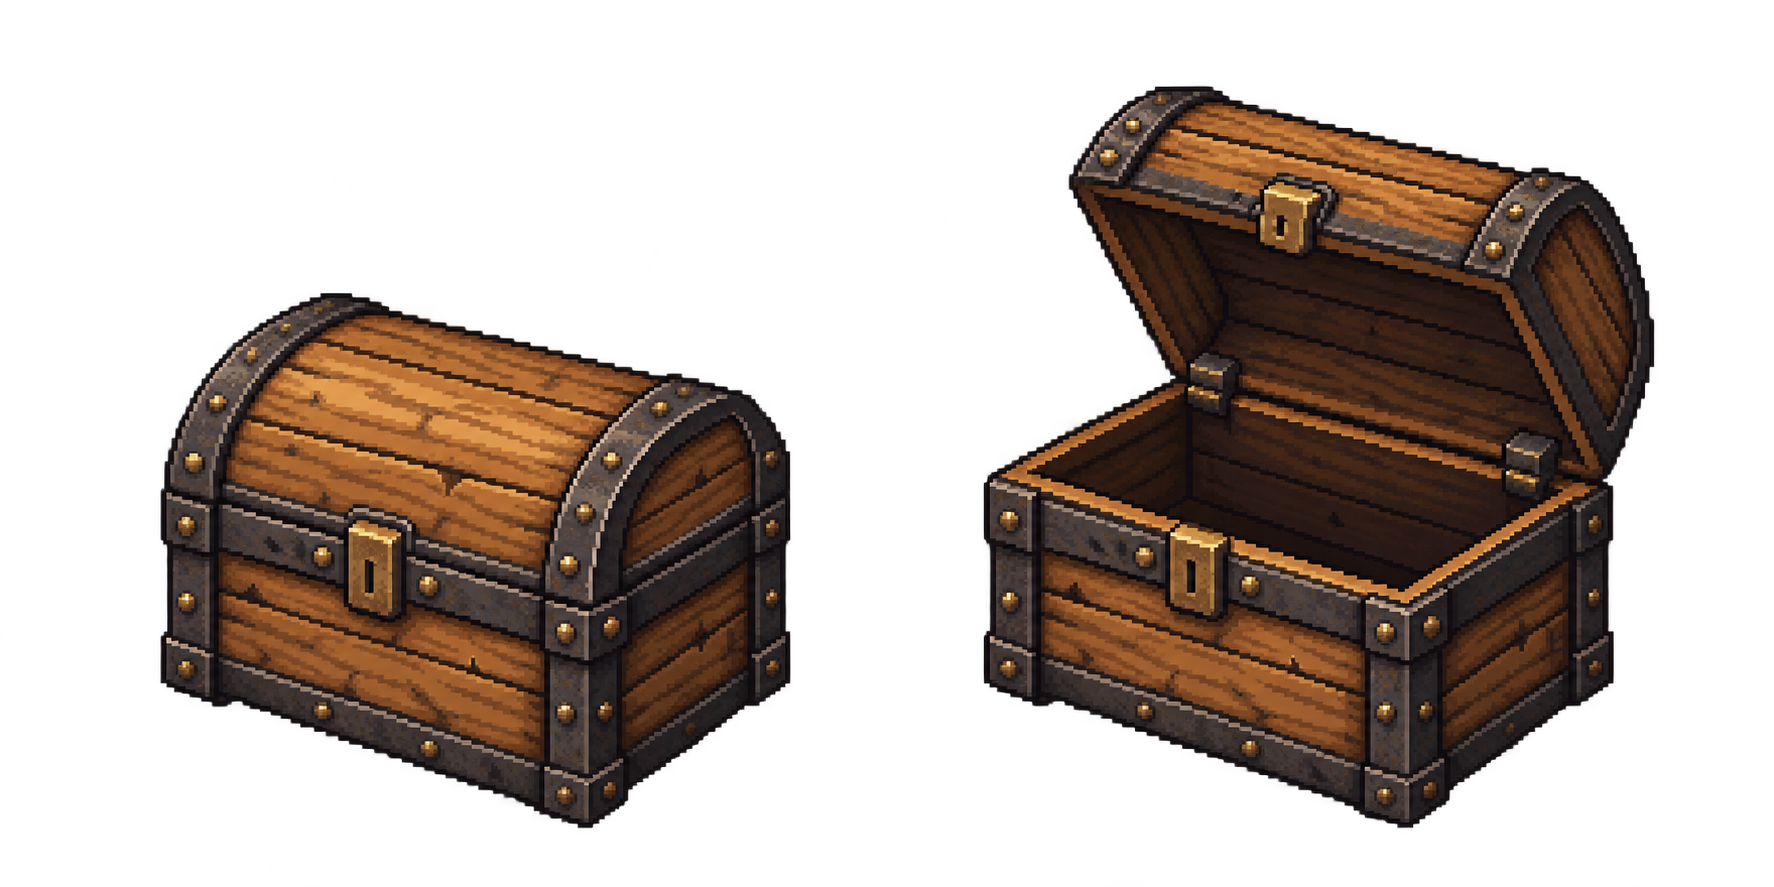
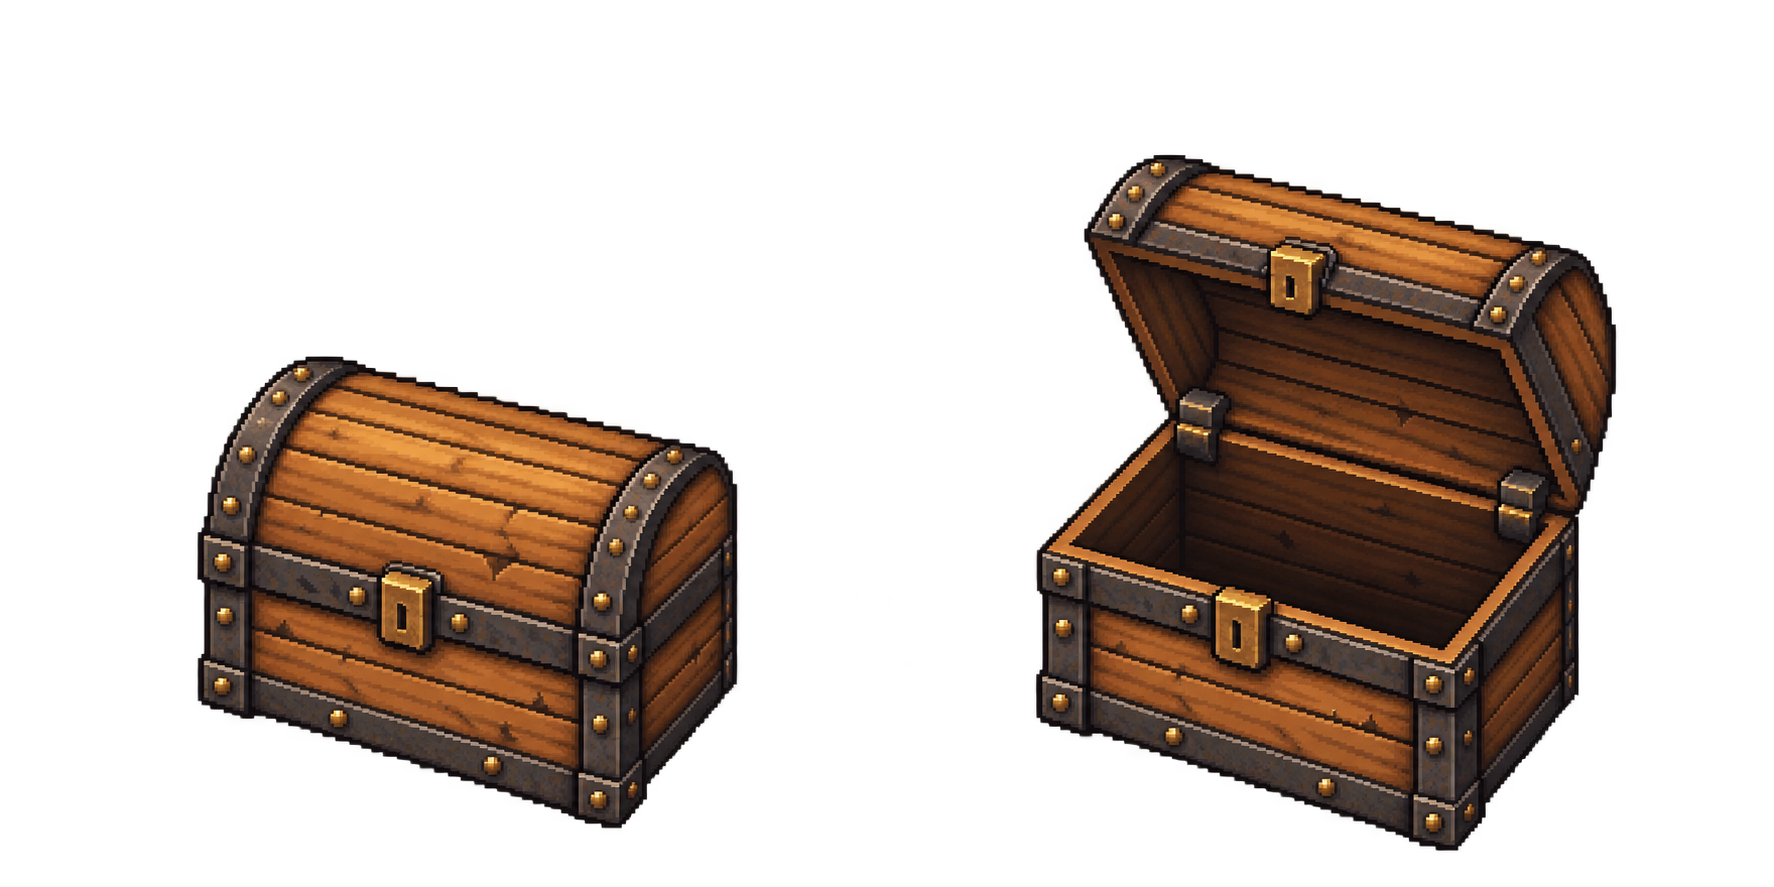
art: ajusta bau, visibilidade da exploradora e guia

diff --git a/Assets/Scripts/Prototype/PrototypeHud.cs b/Assets/Scripts/Prototype/PrototypeHud.cs
@@ -1,54 +1,34 @@
 using UnityEngine;
-using DragonQuest.Exploration;
 using DragonQuest.Interactions;
-using DragonQuest.Progression;
 
 namespace DragonQuest.Prototype
 {
     public sealed class PrototypeHud : MonoBehaviour
     {
-        private Camera view;
         private PlayerInteraction interaction;
         private DialogueController dialogue;
-        private ExplorationProgress progress;
-        private PrototypeLocations locations;
         private PrototypeBattleController battle;
-        private PrototypeShopController shops;
-        private AncientSecrets secrets;
         private GUIStyle titleStyle;
         private GUIStyle bodyStyle;
         private Texture2D panelTexture;
 
-        public void Initialize(Camera worldCamera, PlayerInteraction playerInteraction,
-            DialogueController dialogueController, ExplorationProgress explorationProgress, PrototypeLocations locationController,
-            PrototypeBattleController battleController, PrototypeShopController shopController, AncientSecrets ancientSecrets)
+        public void Initialize(PlayerInteraction playerInteraction, DialogueController dialogueController,
+            PrototypeBattleController battleController)
         {
-            view = worldCamera;
             interaction = playerInteraction;
             dialogue = dialogueController;
-            progress = explorationProgress;
-            locations = locationController;
             battle = battleController;
-            shops = shopController;
-            secrets = ancientSecrets;
         }
 
         private void OnGUI()
         {
-            if (view == null || battle.IsBusy) return;
+            if (interaction == null || dialogue == null || battle == null || battle.IsBusy) return;
             EnsureStyles();
             float scale = Mathf.Clamp(Screen.height / 720f, 0.65f, 2f);
             Matrix4x4 previousMatrix = GUI.matrix;
             GUI.matrix = Matrix4x4.Scale(new Vector3(scale, scale, 1));
             float width = Screen.width / scale;
             float height = Screen.height / scale;
-
-            GUI.DrawTexture(new Rect(16, 16, Mathf.Min(590, width - 32), secrets.IsDiscovered ? 172 : 126), panelTexture);
-            GUI.Label(new Rect(30, 25, width - 60, 27), "DRAGON QUEST  /  " + locations.LocationName, titleStyle);
-            GUI.Label(new Rect(30, 54, width - 60, 24), "WASD/setas: andar  |  E: interagir", bodyStyle);
-            GUI.Label(new Rect(30, 78, width - 60, 24), "I: inventario" + (secrets.KnowsPoem ? "  |  P: poema" : "") + "  |  Ouro: " + progress.Gold, bodyStyle);
-            GUI.Label(new Rect(30, 104, Mathf.Min(442, width - 60), 34), shops.Quest.Summary, bodyStyle);
-            if(secrets.IsDiscovered) GUI.Label(new Rect(30,144,Mathf.Min(548,width-60),34),secrets.Summary,bodyStyle);
 
             if (dialogue.IsOpen)
             {
@@ -70,18 +50,14 @@ namespace DragonQuest.Prototype
             }
             else
             {
-                GUI.DrawTexture(new Rect(16, height - 64, width - 32, 48), panelTexture);
                 string prompt = interaction.CurrentPrompt;
-                if (string.IsNullOrEmpty(prompt))
-                    prompt = locations.IsInShop ? "Use E no lojista para comprar/vender; a saida fica ao sul."
-                        : locations.LocationId == PrototypeTravel.World ? "Caminhe ate a entrada do castelo, florestas ou ruinas para entrar automaticamente."
-                        : locations.IsInCity ? "Lojas ao redor da praca. Castelo ao norte; saida para a ilha ao sul. Caminhe pelas entradas."
-                        : locations.LocationId == PrototypeTravel.Castle ? "O trono fica ao norte; caminhe ate a saida ao sul para voltar a periferia."
-                        : locations.LocationId == PrototypeTravel.Ruins ? "Explore as ruinas. O altar fica ao norte; a saida para a ilha fica ao sul."
-                        : locations.LocationId == PrototypeTravel.Volcano ? "Siga a trilha entre a lava ate a arena. A saida fica ao sul."
-                        : locations.LocationId == PrototypeTravel.Inn ? "F5: salvar jornada / E na hospedeira: salvar ou conversar / I: inventario. Saida ao sul."
-                        : "Converse com o morador usando E. A saida para a ilha fica ao sul.";
-                GUI.Label(new Rect(28, height - 57, width - 56, 38), prompt, bodyStyle);
+                if (!string.IsNullOrEmpty(prompt))
+                {
+                    float promptWidth = Mathf.Min(380, width - 32);
+                    float left = (width - promptWidth) / 2;
+                    GUI.DrawTexture(new Rect(left, height - 64, promptWidth, 48), panelTexture);
+                    GUI.Label(new Rect(left + 12, height - 57, promptWidth - 24, 38), prompt, bodyStyle);
+                }
             }
             GUI.matrix = previousMatrix;
         }

diff --git a/Tests/ObliqueChecks.cs b/Tests/ObliqueChecks.cs
@@ -186,6 +186,7 @@ internal static class ObliqueChecks
         Assert(moat.Vertices.Any(p=>p.z>0.5f),"Fosso precisa ficar visualmente abaixo da rua, com bloqueio fisico definido no layout.");
         city.Append(streets.Body,Vector3.zero);cityGlow.Append(streets.Glow,Vector3.zero);
         CheckEquipmentApproach();
+        CheckExplorerVisibility();
         var sign=new ObliqueMeshData();CityPeripheryArt.Panel(sign,0,-2.1f,2,3,0.8f,1);
         Near(sign.UVs[0].x,0.01f,"Placa inicia na borda esquerda da celula.");Near(sign.UVs[2].x,0.99f,"Placa termina na borda direita da celula.");
         Assert(sign.Surfaces.All(s=>s.x==1&&s.y==1),"Letreiro nao pode receber material de grama ou escurecimento por face.");
@@ -298,6 +299,20 @@ internal static class ObliqueChecks
         foreach(float x in new[]{-1f,0,1f})
             Assert(!float.IsFinite(RayDistance(ObliqueProjection.Point(new Vector2(PrototypeCityLayout.EquipmentDoor.x+x,-12.445f),2.2f),towardCamera,others)),
                 "Casa vizinha nao pode esconder o letreiro ARMAS.");
+    }
+    private static void CheckExplorerVisibility()
+    {
+        var buildings=new ObliqueMeshData();
+        foreach(var building in PrototypeCityLayout.Buildings)
+            buildings.Append(CityPeripheryArt.Building(building.Name,building.Size,building.Color).Body,ObliqueProjection.Point(building.Position));
+        buildings.Append(CityPeripheryArt.Streets().Body,Vector3.zero);
+        var towardCamera=new Vector3(ObliqueProjection.YawSin*ObliqueProjection.HeightScale,
+            -ObliqueProjection.YawCos*ObliqueProjection.HeightScale,-ObliqueProjection.GroundScale);
+        Assert(float.IsFinite(RayDistance(ObliqueProjection.Point(new Vector2(7.7f,-0.2f),0.5f),towardCamera,buildings)),
+            "Posicao anterior da exploradora deve reproduzir a oclusao por uma casa.");
+        foreach(float x in new[]{-0.2f,0,0.2f}) foreach(float height in new[]{0.075f,0.5f,1f,1.4f})
+            Assert(!float.IsFinite(RayDistance(ObliqueProjection.Point(PrototypeCityLayout.Explorer+Vector2.right*x,height),towardCamera,buildings)),
+                "Exploradora deve aparecer inteira na rua central.");
     }
     private static void CheckCityViewportCoverage(string directory)
     {

diff --git a/Tests/PixelArtChecks.cs b/Tests/PixelArtChecks.cs
@@ -140,15 +140,17 @@ internal static class PixelArtChecks
     private static void CheckChestFrames()
     {
         var alpha=new byte[60*36];
-        for(int i=0;i<2;i++) for(int y=4;y<=17;y++) for(int x=6+i*30;x<=23+i*30;x++) alpha[y*60+x]=255;
+        for(int i=0;i<2;i++) for(int y=4+i*2;y<=17+i*2;y++) for(int x=6+i*30;x<=23+i*30;x++) alpha[y*60+x]=255;
         for(int y=18;y<=23;y++) for(int x=6;x<=23;x++) alpha[y*60+x]=255;
-        for(int y=20;y<=30;y++) for(int x=39;x<=56;x++) alpha[y*60+x]=255;
+        for(int y=22;y<=32;y++) for(int x=39;x<=56;x++) alpha[y*60+x]=255;
         var frames=PixelSpriteLayout.ReadPropPair(60,36,alpha);
         Assert(frames.Length==2&&frames[1].Height>frames[0].Height,"Bau precisa de estados fechado e aberto, com tampa inteira.");
         Assert(Math.Abs(frames[0].X+frames[0].Width*frames[0].FootX-15)<0.001f
             &&Math.Abs(frames[1].X+frames[1].Width*frames[1].FootX-45)<0.001f,
             "A tampa aberta mais larga nao pode deslocar o centro da caixa.");
-        Assert(frames[0].Y==frames[1].Y,"Trocar o estado deve conservar a base vertical.");
+        Assert(frames[0].Y!=frames[1].Y&&Math.Abs(frames[0].Pivot.y*frames[0].Height-1)<0.001f
+            &&Math.Abs(frames[1].Pivot.y*frames[1].Height-1)<0.001f,
+            "Recortes com baselines diferentes na folha devem apoiar a base na mesma ancora do mundo.");
         bool refused=false;try{PixelSpriteLayout.ReadPropPair(60,36,new byte[60*36]);}catch(ArgumentException){refused=true;}
         Assert(refused,"Folha de bau vazia precisa ser recusada.");
     }

diff --git a/Assets/Scripts/Prototype/PrototypeCity.cs b/Assets/Scripts/Prototype/PrototypeCity.cs
@@ -121,7 +121,7 @@ namespace DragonQuest.Prototype
             interaction.Initialize(new InteractionContext(dialogue, progress, locations.TravelTo,
                 battle.StartBattle, () => battle.IsBusy, shops.Open, secrets), interactables.ToArray());
             PrototypeHud hud = gameObject.AddComponent<PrototypeHud>();
-            hud.Initialize(camera, interaction, dialogue, progress, locations, battle, shops, secrets);
+            hud.Initialize(interaction, dialogue, battle);
             saves.Initialize(player.GetComponent<PlayerMovement>(), battle, shops, locations, dialogue, progress, secrets, dragon, journey =>
             {
                 progress = journey.Progress;
@@ -133,7 +133,7 @@ namespace DragonQuest.Prototype
                 shops.Initialize(player.GetComponent<PlayerMovement>(), dialogue, battle, progress, journey.Shops, journey.Quest);
                 interaction.Initialize(new InteractionContext(dialogue, progress, locations.TravelTo,
                     battle.StartBattle, () => battle.IsBusy, shops.Open, secrets), interactables.ToArray());
-                hud.Initialize(camera, interaction, dialogue, progress, locations, battle, shops, secrets);
+                hud.Initialize(interaction, dialogue, battle);
                 locations.Restore(journey.Data.Map, new Vector2(journey.Data.X, journey.Data.Y));
             });
         }

diff --git a/Assets/Scripts/Prototype/PrototypeCityLayout.cs b/Assets/Scripts/Prototype/PrototypeCityLayout.cs
@@ -54,10 +54,10 @@ namespace DragonQuest.Prototype
         public static readonly Vector2 Bridge = new Vector2(0, 12.5f);
         public static readonly Vector2 Guard = new Vector2(0, 8.4f);
         public static readonly Vector2 Citizen = new Vector2(-1.2f, -15);
-        public static readonly Vector2 Chest = new Vector2(0.5f, -4);
+        public static readonly Vector2 Chest = new Vector2(2, -2.5f);
         public static readonly Vector2 Resident = new Vector2(-8.2f, 0);
         public static readonly Vector2 Gardener = new Vector2(8, 7.4f);
-        public static readonly Vector2 Explorer = new Vector2(7.7f, -0.2f);
+        public static readonly Vector2 Explorer = new Vector2(0.4f, 1.7f);
         public static Vector2 ItemDoor => DoorAt("Loja de itens");
         public static Vector2 EquipmentDoor => DoorAt("Loja de equipamentos");
         public static Vector2 MateriaDoor => DoorAt("Loja de materias");

diff --git a/Tools/Inspect-PixelArt.py b/Tools/Inspect-PixelArt.py
@@ -77,7 +77,10 @@ for name in ("ArenWalk", "ArenDiagonalWalk", "LiaWalk", "BramWalk", "NpcRoster",
             if prop_pair:
                 entry['pixelsPerUnit'] = entry['frames'][0]['width'] / 1.1
                 check(abs(base_widths[0] - base_widths[1]) < base_widths[0] * .04, name + ": caixa muda de largura ao abrir")
-                check(abs(base_bottoms[0] - base_bottoms[1]) <= 2, name + ": base vertical desalinhada")
+                # Cada recorte ancora a propria base a um pixel da borda inferior. A posicao
+                # bruta na folha pode variar sem deslocar o bau ao trocar os sprites.
+                check(all(frame['y'] + frame['height'] - bottom == 1
+                          for frame, bottom in zip(entry['frames'], base_bottoms)), name + ": margem inferior da ancora incorreta")
         result[name] = entry
 
 if len(sys.argv) > 1:

diff --git a/Assets/Scripts/Prototype/PrototypeMateriaHud.cs b/Assets/Scripts/Prototype/PrototypeMateriaHud.cs
@@ -186,6 +186,7 @@ namespace DragonQuest.Prototype
             GUI.Label(new Rect(690, 310, 530, 135), selectedInventoryItem?.Description
                 ?? "Pocao recupera HP, eter recupera MP, antidoto remove veneno e Pluma da Fenix revive.", text);
             GUI.Label(new Rect(690, 483, 530, 130), "Itens nao recebem bonus de classe ou combos de materia. O estoque nao e restaurado a cada batalha. Compre suprimentos na loja de itens.", text);
+            if(secrets.IsDiscovered) GUI.Label(new Rect(690,635,530,45),secrets.Summary,small);
         }
 
         private void ResetSocketSelection() { selectedEquipment = null; selectedSlot = -1; socketsScroll = Vector2.zero; }

diff --git a/Assets/Scripts/Exploration/PixelSpriteLibrary.cs b/Assets/Scripts/Exploration/PixelSpriteLibrary.cs
@@ -25,7 +25,7 @@ namespace DragonQuest.Exploration
             for (int i = 0; i < frames.Length; i++)
             {
                 var f = frames[i];
-                Sprites[i] = Sprite.Create(Texture, f.Rect, new Vector2(f.FootX, 1f / f.Height), pixelsPerUnit, 0, SpriteMeshType.FullRect);
+                Sprites[i] = Sprite.Create(Texture, f.Rect, f.Pivot, pixelsPerUnit, 0, SpriteMeshType.FullRect);
                 Sprites[i].name = resource + " / " + i;
             }
         }

diff --git a/Assets/Scripts/Exploration/PixelSpriteLayout.cs b/Assets/Scripts/Exploration/PixelSpriteLayout.cs
@@ -12,6 +12,7 @@ namespace DragonQuest.Exploration
         public PixelFrame(int x, int y, int width, int height, float footX)
         { X = x; Y = y; Width = width; Height = height; FootX = footX; }
         public Rect Rect => new Rect(X, Y, Width, Height);
+        public Vector2 Pivot => new Vector2(FootX, 1f / Height);
     }
 
     // Pequenos intervalos sem deslocamento entre amostras da fisica nao reiniciam o passo.

diff --git a/Docs/PERIFERIA_PIXEL_ART.md b/Docs/PERIFERIA_PIXEL_ART.md
@@ -21,6 +21,7 @@ A periferia foi redesenhada a partir da referência enviada pelo usuário: bairr
 - Chegar ao portão depois da ponte troca automaticamente para o interior do castelo. Lojas e hospedaria também mantêm entrada automática; retornos ficam fora das áreas de passagem.
 - Passagens não têm marcações no chão. As áreas das três lojas e da hospedaria ficam centradas nos painéis das portas, com faixa acessível pela frente. Caminhar junto a uma janela não entra na loja. A saída sul cobre toda a largura caminhável do bairro; basta alcançar a faixa inferior para voltar à ilha.
 - Não há nomes flutuantes de lugares. ITENS, MATERIA, ARMAS e POUSADA aparecem em letreiros físicos presos às fachadas/toldos.
+- O baú fica parcialmente atrás do canto da oficina das lanternas, em (2; −2,5). A exploradora está na rua central, em (0,4; 1,7), visível por inteiro. O painel fixo de título/controles/missão e a faixa de dicas gerais foram retirados. O aviso E aparece apenas perto de uma interação; o progresso dos segredos pode ser consultado em I → Itens após a primeira descoberta.
 
 `PrototypeCityLayout` centraliza a planta, portas, retornos e moradores. `PrototypeTravel` usa essas coordenadas; o ícone global do castelo e os interiores mantêm suas conexões e IDs.
 
@@ -79,6 +80,6 @@ A fortaleza teve prévias geral e junto ao portão inspecionadas. A vista geral 
 2. Entre pelo ícone global do castelo. A chegada deve mostrar o bairro compacto, com pousada/armas próximas e sem lago, rio ou pontes de madeira.
 3. Siga a viela, entre nas três lojas e na hospedaria e retorne. Confira portas, letreiros, corpo do herói e ruas entre as casas, inclusive ao andar nas diagonais. As poses devem conservar o alinhamento do corpo e parar ao soltar as teclas ou ficar bloqueado. Encoste na frente e nas laterais do balcão: a cabeça deve permanecer inteira. Por trás de móveis e paredes, o corpo deve ser ocultado normalmente.
    Confira também que não há faixas douradas de entrada/saída. Aproximar-se da porta deve entrar; passar diante de uma janela ou distante no pátio deve continuar no bairro. Ao voltar, o herói fica fora da área de entrada. Experimente sair pelo sul tanto no centro quanto nas laterais caminháveis; voltar da ilha deve permitir permanecer na periferia.
-4. Converse com os moradores, consulte o poema e abra o baú se ainda não tiver sido coletado. O baú de madeira com ferragens fica no centro da rua do mercado, em (0,5; −4), afastado da projeção da chaminé. Deve trocar do sprite fechado para o aberto/vazio ao coletar 25 moedas. Interagir novamente não concede outra recompensa. Carregue jornadas com e sem o baú coletado e confira a imagem correspondente; progresso, ouro e estoque devem ser conservados.
+4. Converse com os moradores e com a exploradora na rua central, consulte o poema e procure o baú parcialmente atrás da oficina das lanternas. A perspectiva do baú deve acompanhar as casas. Ao abrir, troca para o sprite aberto/vazio e concede 25 moedas; interagir novamente não concede outra recompensa. Carregue jornadas com e sem o baú coletado e confira a imagem correspondente. Confira a exploração sem os painéis de orientação fixos; diálogos e aviso E continuam aparecendo quando necessários. O progresso dos segredos fica em I → Itens depois da primeira descoberta.
 5. Siga ao norte, atravesse a ponte de pedra e caminhe até a porta central do castelo. O cenário deve mudar automaticamente. Saia do interior e confira o retorno ao lado norte da ponte, sem um ciclo de entrada/saída.
 6. Confira o pátio livre diante de ARMAS e as fileiras afastadas, com a mesma definição do chão aprovado anteriormente. Caminhe até a ponte: não deve aparecer o risco de tubulação junto ao guarda. Siga pelas laterais do castelo: o fosso e as paredes devem continuar para fora da tela, sem um término retangular. A revisão atual foi conferida em prévias técnicas; a aparência no renderer da Unity ainda precisa deste Play.

diff --git a/Docs/ASSETS.md b/Docs/ASSETS.md
@@ -17,9 +17,9 @@ Para recursos gerados durante o projeto, registrar a ferramenta, a data, as alte
 
 ## Sprite do baú — 12 de outubro de 2026
 
[2 lines of base64/hex data omitted]
 
-A Unity recorta as duas células em memória; o arquivo é importado como textura legível, Point/Clamp, sem mipmap, compressão ou redução. A escala vem do quadro fechado e é compartilhada pelos dois estados. A âncora horizontal usa a caixa, para que a tampa levantada não desloque sua base. `ObliqueScenery.Chest` monta o sprite vertical com o material de profundidade já usado pelos personagens, substituindo caixa/tampa geométricas. Sombra e colisor continuam no cenário. `ChestInteraction` acompanha o estado salvo, incluindo a volta ao quadro fechado quando outra jornada ainda não abriu o baú.
+A Unity recorta as duas células em memória; o arquivo é importado como textura legível, Point/Clamp, sem mipmap, compressão ou redução. A escala vem do quadro fechado e é compartilhada pelos dois estados. A âncora horizontal usa a caixa, para que a tampa levantada não desloque sua base; o pivô inferior alinha cada recorte ao chão, independentemente de sua posição bruta na folha. `ObliqueScenery.Chest` monta o sprite vertical com o material de profundidade já usado pelos personagens, substituindo caixa/tampa geométricas. Sombra e colisor continuam no cenário. `ChestInteraction` acompanha o estado salvo, incluindo a volta ao quadro fechado quando outra jornada ainda não abriu o baú.
 
 ## Modelos 2.5D — 10 de outubro de 2026
 
